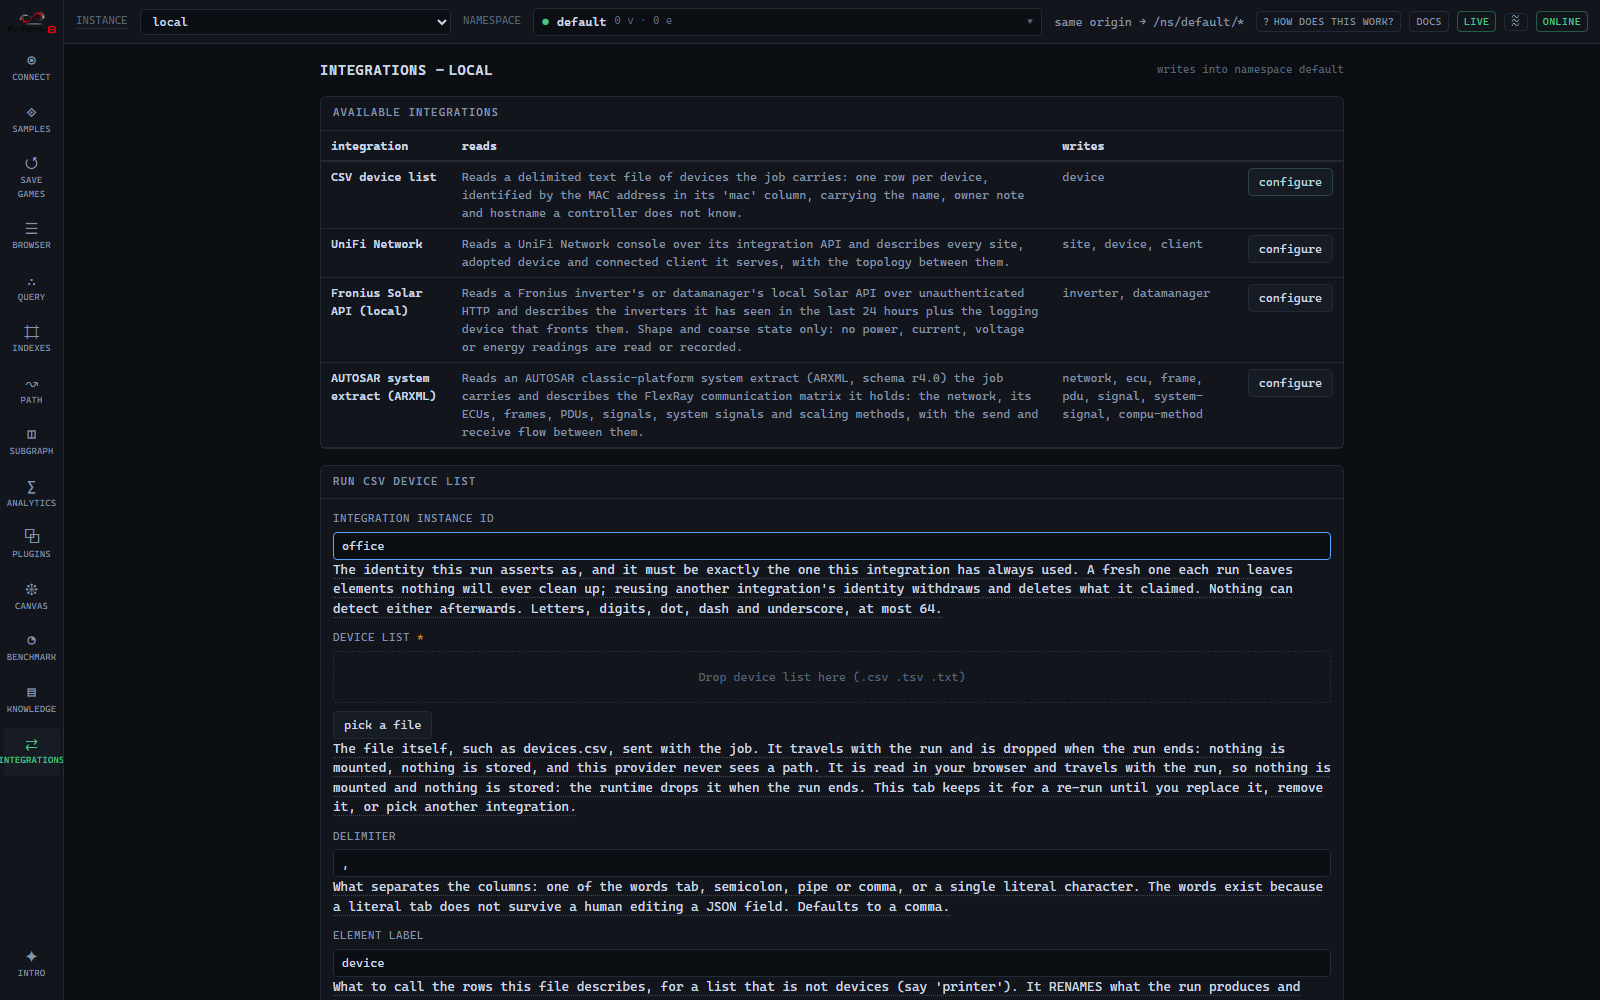
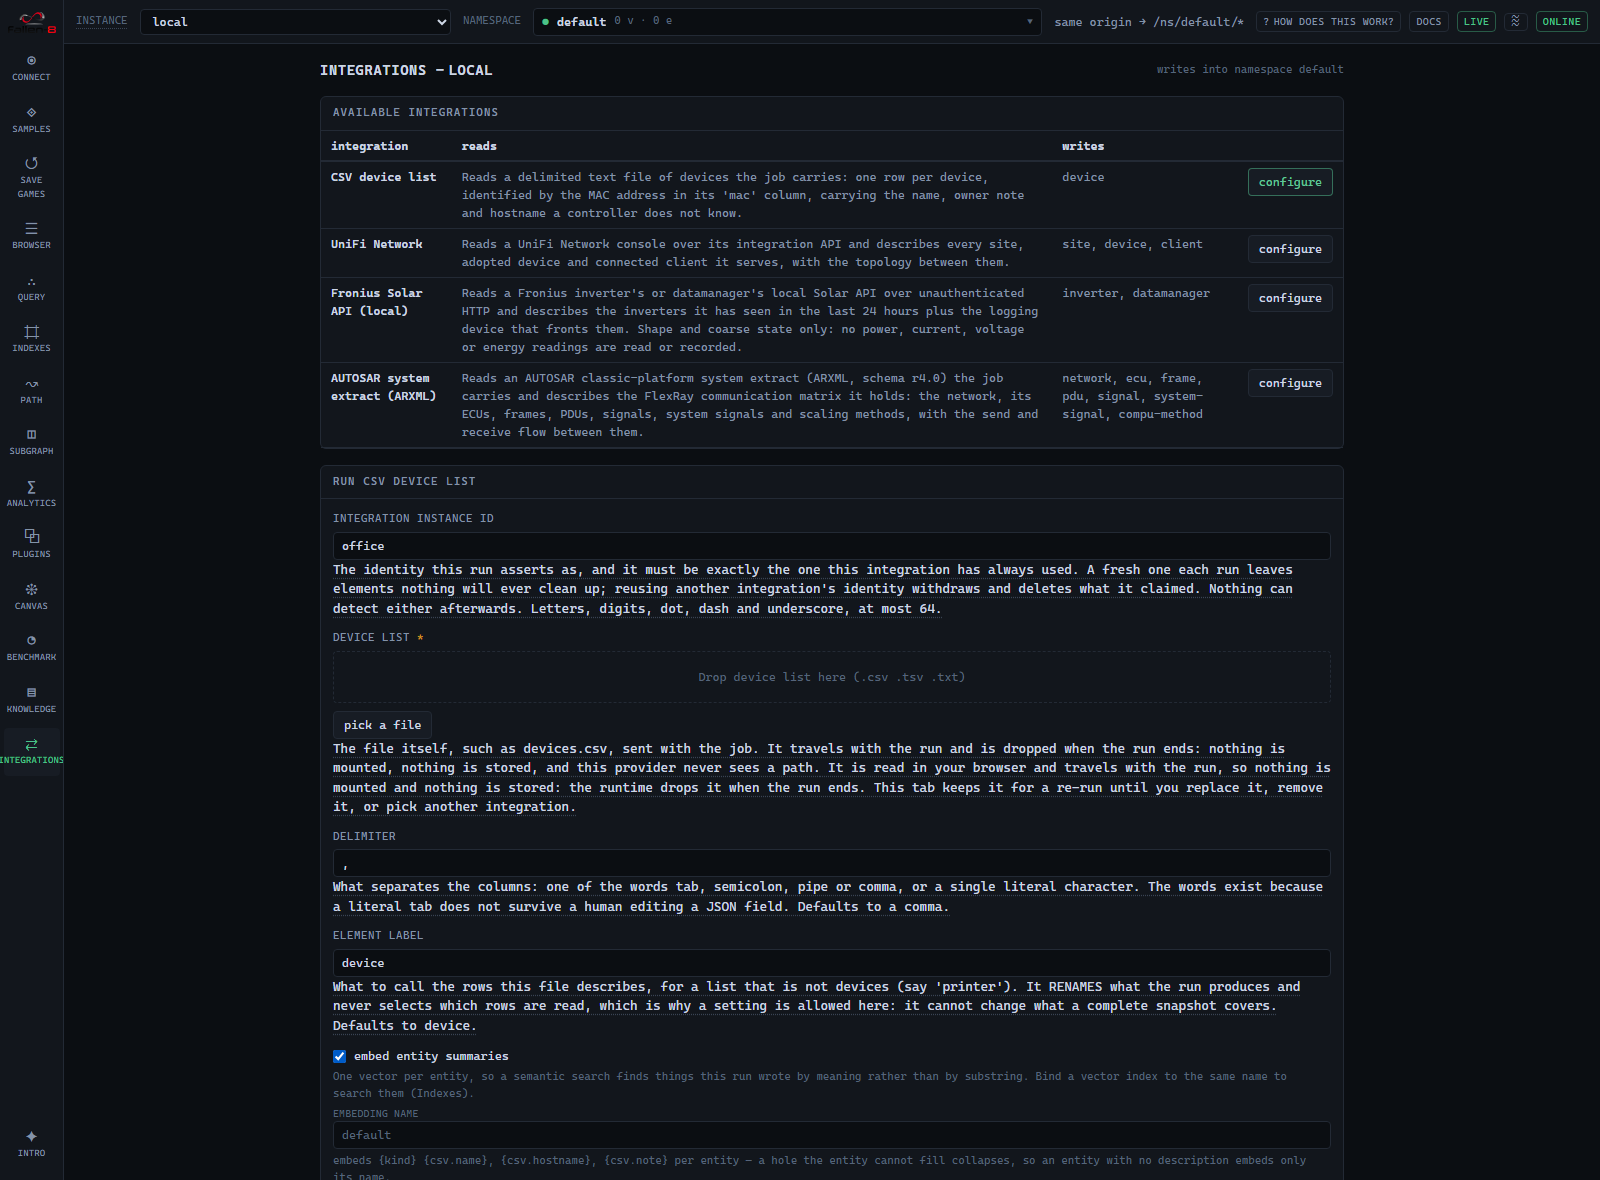
docs: the embed opt-in, the bound index, and finding similar
The published recipe was curl-only and named neither job field, linked a
create-index example with dimension 3 and no binding, and described the
Embeddings tab as set/replace/remove.

integrations.md now names embedSummaries and embeddingName with its default,
gives the Studio path, and inlines a create-index body that works, with the
dimension taken from GET /status rather than from the example. It also states
the two things that bite: only created or changed entities are embedded, so
re-running embeds nothing and the recovery is a tabula rasa; and the summaries
go out in batches, so a provider that stops half way leaves what already
landed.

The label constraint is now explained rather than just used. Three of the
seven ARXML entity kinds have no prose in the file, so their summary is little
more than an identifier and an unconstrained similarity search ranks that
noise against real matches.

troubleshooting.md gains the case the empty-index warning exists for:
semantic search that succeeds and finds nothing, with the four causes in the
order they actually bite. vector-search.mdx says plainly that the runnable
example is the raw form and real work wants the bound one.

The Integrations screenshot is recaptured, and its spec now stubs the status
embedding block. The capture app has no provider configured, so without that
the published image would photograph the opt-in in its disabled state - the
same dead-control failure the descriptor stub in that file already exists to
[…]

diff --git a/fallen-8-web-ui/e2e/screenshot-integrations.spec.ts b/fallen-8-web-ui/e2e/screenshot-integrations.spec.ts
@@ -56,7 +56,7 @@ test.skip(process.env.F8_SCREENSHOT !== "1", "docs screenshot capture (set F8_SC
 const SHIPPED_DESCRIPTORS = shippedDescriptors as IntegrationProvider[];
 
 test("capture the Integrations screen rendered from the shipped descriptors", async ({ page }) => {
-  await page.setViewportSize({ width: 1600, height: 1000 });
+  await page.setViewportSize({ width: 1600, height: 1180 });
 
   // Stand in for the proxied sidecar. Only the descriptor list is served: the screenshot shows the
   // form as it opens, so no job is ever submitted.
@@ -67,6 +67,32 @@ test("capture the Integrations screen rendered from the shipped descriptors", as
       body: JSON.stringify(SHIPPED_DESCRIPTORS),
     }),
   );
+
+  // Stand in for an instance whose embedding provider is ON, which is what the compose default
+  // gives (F8_EMBEDDINGS defaults true). The capture app deliberately has no provider configured, so
+  // without this the page would photograph the embed opt-in in its DISABLED state - a dead control,
+  // which is the exact failure this file's descriptor stub exists to avoid. Only the embedding block
+  // is asserted; everything else in the status answer passes through untouched.
+  await page.route("**/status", async (route) => {
+    const response = await route.fetch();
+    const status = await response.json();
+    route.fulfill({
+      response,
+      contentType: "application/json",
+      body: JSON.stringify({
+        ...status,
+        embedding: {
+          enabled: true,
+          backend: "Ollama",
+          modelName: "bge-m3",
+          modelVersion: "",
+          dimension: 1024,
+          intendedMetric: "Cosine",
+          loaded: false,
+        },
+      }),
+    });
+  });
 
   await page.goto("/integrations");
 
@@ -80,6 +106,11 @@ test("capture the Integrations screen rendered from the shipped descriptors", as
   await page.getByTestId("integration-select-csv-device-list").click();
   await expect(page.getByTestId("integration-instance-id")).toBeVisible();
   await page.getByTestId("integration-instance-id").fill("office");
+
+  // Ticked, because the point the page makes about it is that the TEMPLATE is visible before the run
+  // rather than inferred after it - and the template only renders once the opt-in is on.
+  await page.getByTestId("integration-embed-toggle").click();
+  await expect(page.getByTestId("integration-embed-template")).toBeVisible();
 
   await page.screenshot({
     path: "../docs/src/assets/images/screen-integrations.png",

diff --git a/docs/src/content/docs/integrations.md b/docs/src/content/docs/integrations.md
@@ -295,12 +295,40 @@ performed. Deferring is recoverable; deleting wrongly is not.
 
 An integration can optionally have its entities embedded, so they turn up in semantic search
 alongside your documents. It is **off unless both halves are asked for**: the integration
-declares a summary template, and the job sets `"embedSummaries": true`. Embedding every client
-on a busy network by default would be cost and noise in equal measure.
+declares a summary template, and the job asks for it. Embedding every client on a busy network
+by default would be cost and noise in equal measure.
+
+In **F8 Studio**, tick *embed entity summaries* on the run form. The form shows the template
+that will be embedded, so you can see what lands before the run rather than infer it after, and
+the checkbox is offered only when the selected integration declares a template and the instance
+has an embedding provider. Over REST it is two job fields:
+
+```json
+{
+  "providerId": "autosar-arxml",
+  "integrationInstanceId": "vehicle-fleet",
+  "embedSummaries": true,
+  "embeddingName": "default"
+}
+```
+
+`embeddingName` is optional and defaults to `default`, which is also the name the document
+layer binds its index to, so out of the box integration summaries and document chunks share one
+bound index and answer the same searches. Give it a name of its own if you want them separate.
 
 The dimension and the metric are read from the instance's own embedding configuration, so
 nothing here pins a model. If the instance has no embedding provider, or it is switched off, the
 run still succeeds and the summaries are simply **absent**, with a diagnostic saying so.
+
+Two things worth knowing before you run it:
+
+- **Only entities the run creates or changes are embedded.** A summary is a pure function of an
+  entity's kind and properties, so an unchanged entity has no new summary and re-running over the
+  same source embeds nothing. To embed a graph that was already imported without the opt-in,
+  clear that namespace (`PUT /ns/<name>/tabularasa`) and run again.
+- **The summaries are written in batches**, so a large extract is many requests rather than one.
+  If the provider stops answering half way, the vectors that already landed stay: the run reports
+  the count that was written and a diagnostic naming the shortfall.
 
 ## Reading a vehicle network
 
@@ -333,14 +361,42 @@ embedding above is for. The template covers a signal's name, both language descr
 **unit**, and the unit is the point: an odometer's description says "accumulated distance" and
 never "kilometer", so its unit is the only thing connecting it to somebody searching for one.
 
-With `"embedSummaries": true` on the job and an embedding provider configured, create a
-[vector index](/vector-search/) bound to that embedding name and ask in words:
+With the embed opt-in on the run and an embedding provider configured, create a
+[vector index](/vector-search/) bound to that embedding name. In Studio that is the Indexes
+screen: type an index id, pick `VectorIndex`, and set *bind embedding* to the name the run used.
+The dimension and metric are prefilled from the instance's provider, and accepting them is what
+you want -- an index whose dimension disagrees with the model writing into it is refused on
+every later embed and every search. Over REST:
+
+```bash
+curl -sf -X POST http://localhost:8080/ns/vehicle/index \
+     -H "Content-Type: application/json" \
+     -d '{"uniqueId":"arxml-summary","pluginType":"VectorIndex","pluginOptions":{
+           "dimension":{"propertyId":"dimension","propertyValue":"1024","fullQualifiedTypeName":"System.Int32"},
+           "metric":{"propertyId":"metric","propertyValue":"Cosine","fullQualifiedTypeName":"System.String"},
+           "embeddingName":{"propertyId":"embeddingName","propertyValue":"default","fullQualifiedTypeName":"System.String"}}}'
+```
+
+Take the `dimension` from `GET /status` (the `embedding` block), not from this example. Order
+does not matter: a bound index created after the vectors exist materialises itself from them.
+
+Then ask in words:
 
 ```bash
 curl -sf -X POST http://localhost:8080/ns/vehicle/embedding/search \
      -H "Content-Type: application/json" \
      -d '{"indexId":"arxml-summary","text":"kilometer","k":10,"label":"signal"}'
 ```
+
+Note the `label`. It is not decoration: three of the seven ARXML entity kinds have no prose in
+the file at all, so their summary is little more than an identifier, and an unconstrained
+similarity search ranks that identifier-shaped noise against real matches. Constrain every
+similarity query to the kind of thing you are looking for.
+
+Once a signal is on your screen you can also search **from it** instead of describing it: the
+[Studio](/studio/) detail panel and the Browser's Embeddings tab both offer *Find similar*,
+which searches the bound index with that element's own vector and drops the element itself from
+the hits.
 
 The hits are element ids, so they feed straight into the traversal surface: "who receives the
 kilometer signal" is that query followed by one `deliversTo` hop. A multilingual embedding model

diff --git a/docs/src/content/docs/troubleshooting.md b/docs/src/content/docs/troubleshooting.md
@@ -137,6 +137,32 @@ environment has it on unless you set `F8_EMBEDDINGS=false`. A 409 means the prov
 name/dimension/metric does not match the vectors baked into your data. Bring-your-own-vector
 scans work regardless. Full rules: [Semantic traversal](/semantic-traversal/).
 
+## Semantic search succeeds but finds nothing
+
+**Symptom.** A vector or text-in search returns `200` with an empty result list. Nothing is
+wrong-looking: no error, no warning, just no hits.
+
+**Cause.** kNN over an empty index **succeeds** - there is simply nothing to rank - so an index
+with no members is indistinguishable from "nothing is similar" at the search surface. Studio now
+says so beside the Run button when the selected index reports zero members; over REST you have to
+look. Check the member count in the `indices` block of `GET /status`, or the Indexes screen.
+
+**Fix**, in the order these actually bite:
+
+1. **Nothing was ever embedded.** For an integration run, the embed opt-in is off by default -
+   tick *embed entity summaries* on the run form, or send `"embedSummaries": true`
+   ([Integrations](/integrations/)). Note that re-running over an unchanged source embeds
+   nothing, because only created or changed entities get a new summary: clear the namespace
+   (`PUT /ns/<name>/tabularasa`) and run again.
+2. **The index is bound to a different name.** A bound index only ever projects the one embedding
+   name it declares. The Indexes screen shows it as `bound:<name>`; if the run wrote `default`
+   and the index binds `arxml-summary`, neither is wrong and they will never meet.
+3. **The label constraint excludes everything.** Constraints are applied *before* scoring, so a
+   label nothing carries yields nothing rather than the unconstrained answer. Drop the `label`
+   and see whether hits appear.
+4. **The index is raw, not bound.** An unbound index holds only vectors somebody added
+   explicitly, so element embeddings never reach it ([Vector search](/vector-search/)).
+
 ## Document ingestion answers 403 / 428 / 503 / 507, or no entities appear
 
 **Symptom.** An upload on Studio's **Knowledge** screen, or `POST /document` /

diff --git a/docs/src/content/docs/studio.md b/docs/src/content/docs/studio.md
@@ -82,7 +82,7 @@ A sample that carries documents does more on load, and the progress line names e
 
 ![Browser screen](../../assets/images/screen-browser.png)
 
-Look up a graph element, vertex, or edge by id. The inspector shows the label, timestamps, edge endpoints, and two tabs: **Properties**, and **Embeddings** to set, replace, or remove a named embedding on the element from a pasted vector or (with the provider) from text ([semantic-traversal.md](/semantic-traversal/)). An adjacency panel lists neighbors with degrees for one-click hopping, and a bulk view loads up to `maxElements` with a truncation badge and a filter. A mutations panel creates and edits vertices, edges, and properties ([graph-model.md](/graph-model/)). "Send to canvas" is available throughout.
+Look up a graph element, vertex, or edge by id. The inspector shows the label, timestamps, edge endpoints, and two tabs: **Properties**, and **Embeddings** to set, replace, or remove a named embedding on the element from a pasted vector or (with the provider) from text ([semantic-traversal.md](/semantic-traversal/)). Where a vector index is bound to one of the element's embeddings, that row also offers **Find similar**, which searches the bound index with the element's own vector, constrains the search to the element's label, and drops the element itself from the hits. An adjacency panel lists neighbors with degrees for one-click hopping, and a bulk view loads up to `maxElements` with a truncation badge and a filter. A mutations panel creates and edits vertices, edges, and properties ([graph-model.md](/graph-model/)). "Send to canvas" is available throughout.
 
 ## Knowledge
 

diff --git a/features/done/autosar-arxml/spec.md b/features/done/autosar-arxml/spec.md
@@ -282,7 +282,7 @@ exists as an integration rather than as a converter script.
 | `docs/src/content/docs/integrations.md` | gains the provider's section including the worked semantic-search recipe of section 9 (one home; no new page) |
 | Stale counts | every "three shipped providers/descriptors" phrasing goes count-free or becomes four: known sites are the root `CLAUDE.md` quality-gates bullet and the docs page; phase 3 sweeps for the rest |
 | OpenAPI snapshot, MCP coverage, architecture diagrams, NL-assist dataset | untouched: no new REST operation, no new deployable, no new channel |
-| F8 Studio | zero code change; the integrations screen renders any descriptor (pinned by the existing descriptor-fixture test) |
+| F8 Studio | NOT zero code change (corrected 2026-08-24, feature element-similarity-search): the Studio run form could not send `embedSummaries` at all, so a Studio-launched run never embedded, which made the semantic search this spec calls a first-class requirement unreachable from the UI. Fixed there; the integrations screen renders any descriptor (pinned by the existing descriptor-fixture test) |
 | Engine, apiApp | untouched |
 | `features/done/integrations/spec.md` | historical record; not rewritten. The living list of shipped providers is the descriptor snapshot and the docs page |
 

diff --git a/README.md b/README.md
@@ -39,6 +39,9 @@ Each feature has a deep-dive doc — follow the link.
   all as plugins.
 - **[Vector search](https://docs.fallen-8.com/vector-search/)** — exact k-nearest-neighbour over `float[]`
   embeddings (cosine, dot product, L2).
+- **[Find similar](https://docs.fallen-8.com/studio/)** — from any element carrying an embedding a
+  bound vector index projects, search by that element's own vector instead of describing it in
+  words; the search inherits its label and drops the element itself from the hits.
 - **[Semantic traversal](https://docs.fallen-8.com/semantic-traversal/)** — embeddings as element state; a
   code-free `semantic` block steers paths and subgraphs by similarity.
 - **[Nahil](https://docs.fallen-8.com/nahil/)** - run the embedding and chat models on Nahil

diff --git a/features/open/element-similarity-search/plan.md b/features/open/element-similarity-search/plan.md
@@ -125,5 +125,5 @@ true, it becomes mandatory.
 | P3 | done | prefill from status.embedding with edit-wins; empty-index hint on Query; 8 tests, mutation-checked |
 | P4 | done | client-side gesture, bound-index lookup, label inheritance, k+1 + visible exclusion; 17 tests, mutation-checked |
 | P5 | done | 7 arms on the real-server fixture: cosine ranking, label+kind constraints, arg errors, provider-absent semantic. set_embedding still uncovered (write tier, separate class) |
-| P6 | not started | |
-| P7 | not started | |
+| P6 | done | integrations.md, vector-search.mdx, studio.md, troubleshooting.md, README, arxml spec fix; screenshot recaptured (status embedding stubbed, viewport 1180) |
+| P7 | in progress | full dotnet suite + council gate, then merge |
